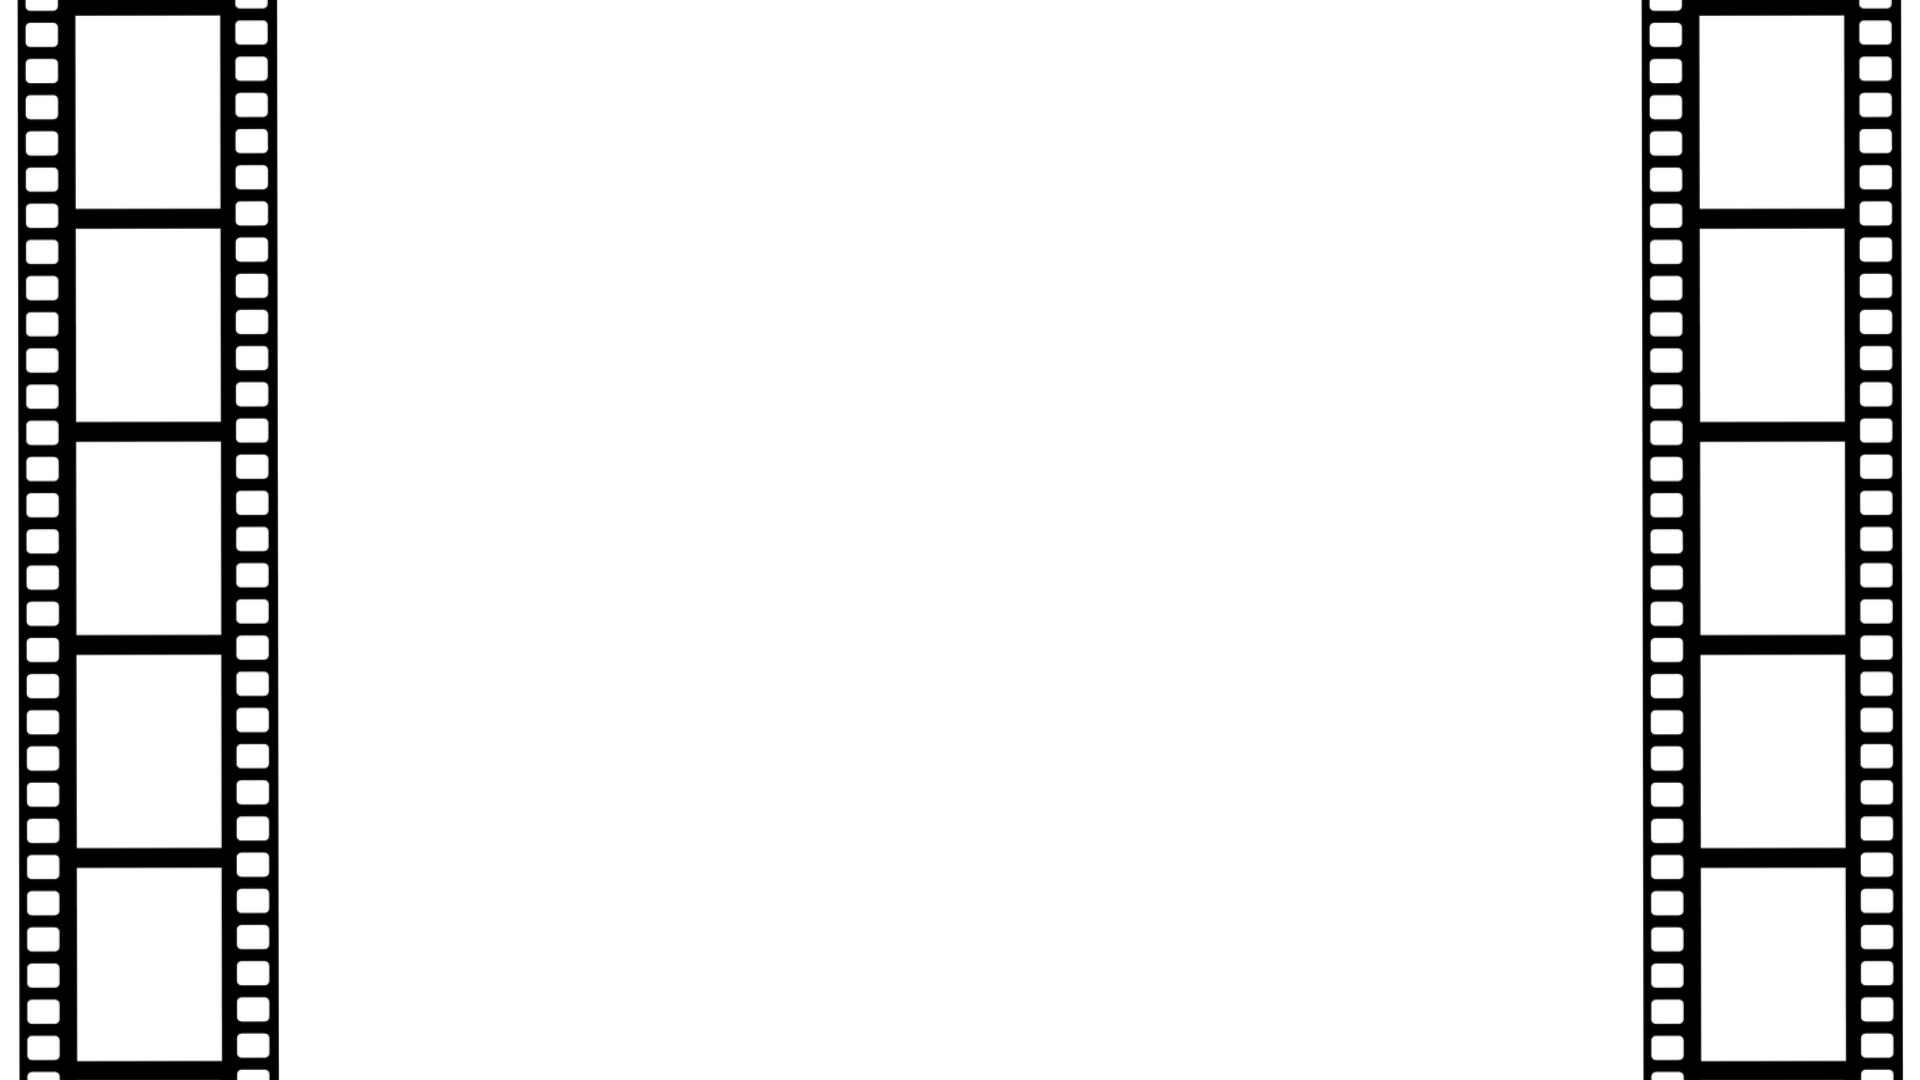
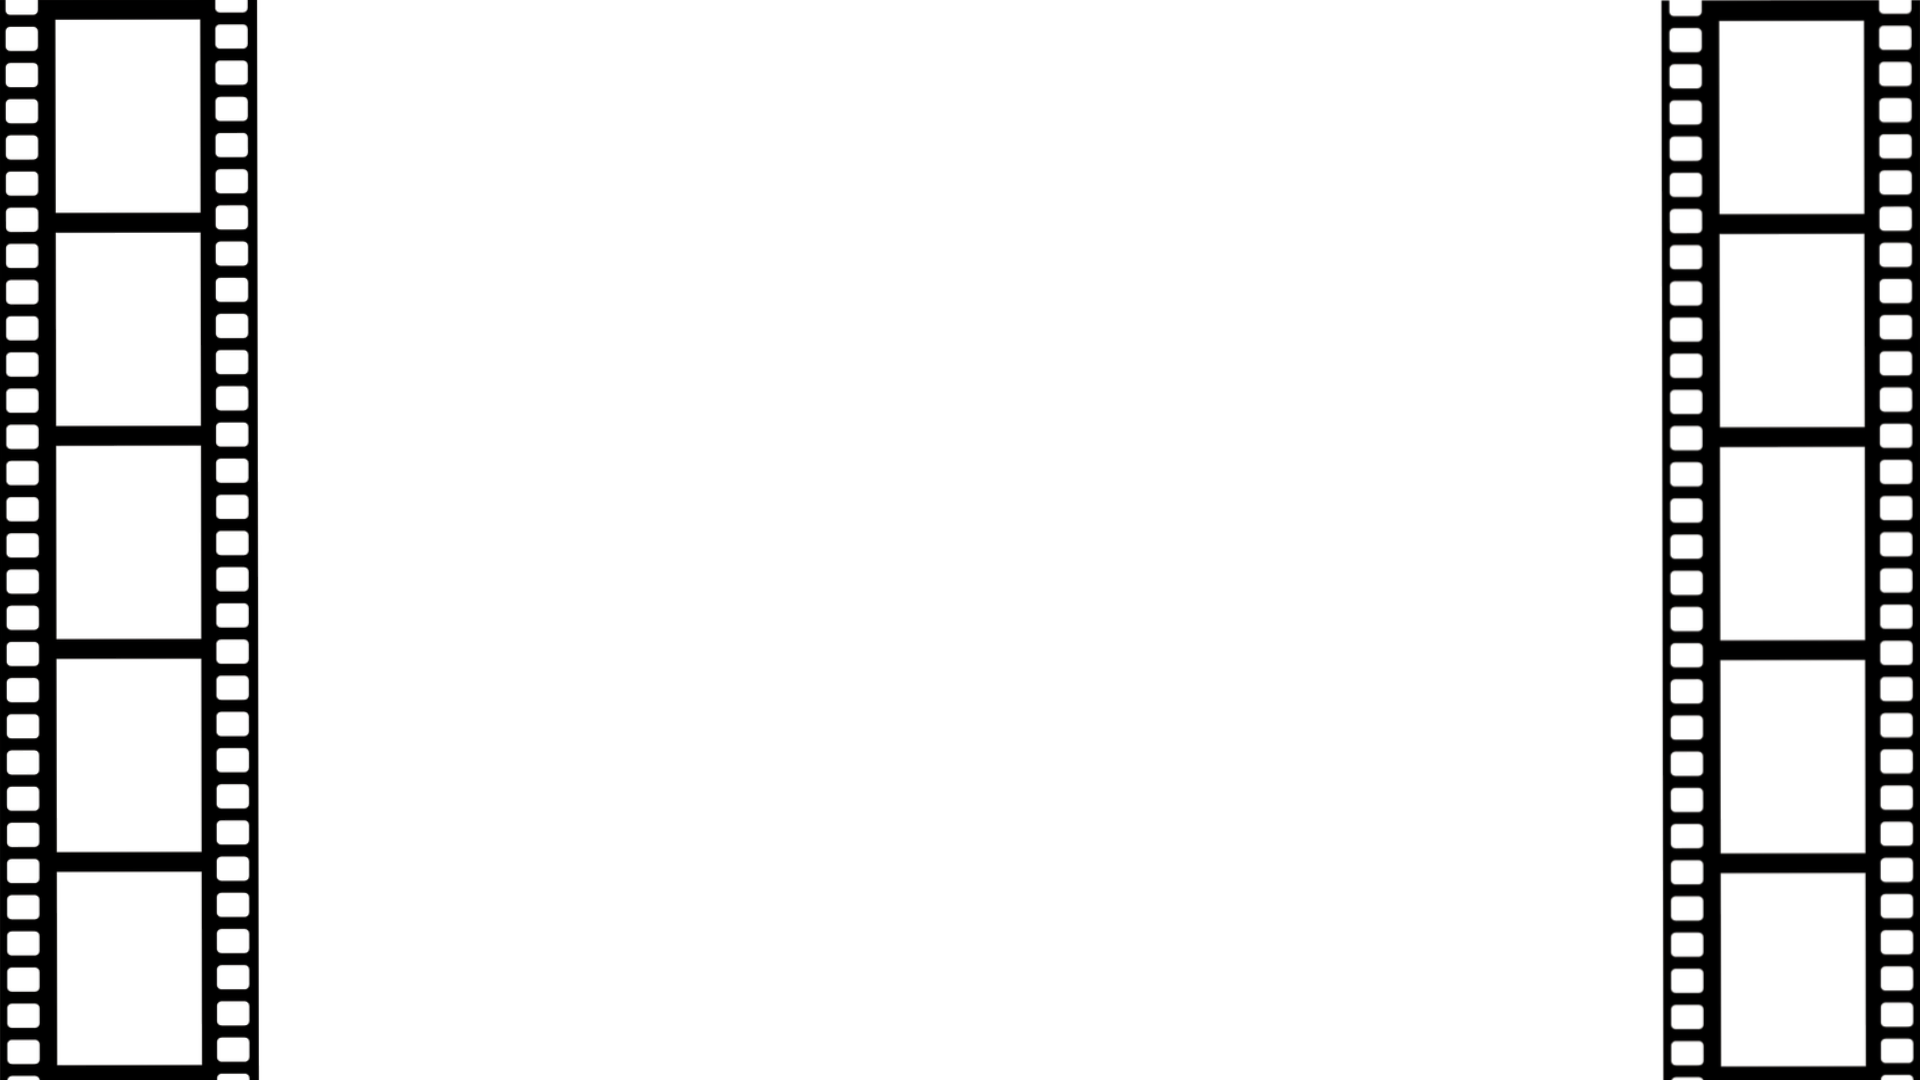
some style changes

Changed region(s): [[0.8438, 0.0, 1.0, 1.0], [0.0, 0.0, 0.1562, 1.0]]

diff --git a/index.html b/index.html
@@ -21,19 +21,23 @@
     </header>
 
     <main>
-        <h1>About Get Focused Photography</h1> 
-        <div class="about"> 
 
-            <p>
-                I, Craig Owen at get focused photography am a professional, result driven photographer with more than 20 years experience in the 
-                industry. It is my goal to build solid long term relationships with my clients through excellent quality and service delivery. 
-                 Over the years I've had my focus areas have included corporate events, weddings, products, personal photoshoots, and much more. Each
-                one of these shoots have been approached with creativity, precision, hospitality, and a commitment to bringing my clients vision to life.
-                This is more than just taking pictures, its about capturing stroies and preserving memories with creative visuals which leave a lasting 
-                impression. At Get Focused, we strive to combine the technical expertise with artistic expression to deliver images that truly stand out. 
-            </p> 
-            <img src="Img/WebLogo.png"  id="logo"/>
-        </div>
+        
+
+    <section id="about">
+  <div class="about">
+    <h1>About Get Focused Photography</h1>
+    <img src="Img/WebLogo.png" id="logo" alt="Get Focused Photography logo">
+    <p>
+      I, Craig Owen at Get Focused Photography, am a professional, result-driven photographer with more than 20 years of experience in the 
+      industry. It is my goal to build solid long-term relationships with my clients through excellent quality and service delivery. 
+      Over the years, my focus areas have included corporate events, weddings, products, personal photoshoots, and much more. Each
+      one of these shoots has been approached with creativity, precision, hospitality, and a commitment to bringing my clients’ vision to life.
+      This is more than just taking pictures—it's about capturing stories and preserving memories with creative visuals that leave a lasting 
+      impression. At Get Focused, we strive to combine technical expertise with artistic expression to deliver images that truly stand out.
+    </p> 
+  </div>
+</section>
         
 <section class="focus-areas">
   <div class="event-card">

diff --git a/Styles/index.css b/Styles/index.css
@@ -1,48 +1,52 @@
 .about {
-    display: flex;
-    align-items: flex-start;
-    justify-content: space-between;
-    gap: 2rem;
-    background-color: #0a0a0a00;
-    color: #e0e0e0;
-    padding: 4rem 6rem;
-    border-radius: 16px;
-    margin: 1rem auto;
-    max-width: 1200px;
-    font-family: 'Tektur', sans-serif;
-    min-height: 700px;
+  display: flex;
+  flex-direction: column; /* Stack image above text */
+  align-items: center;
+  justify-content: center;
+  background-color: transparent;
+  color: #e0e0e0;
+  padding: 4rem 6rem;
+  border-radius: 16px;
+  margin: 1rem auto;
+  max-width: 900px;
+  font-family: 'Tektur', sans-serif;
+  min-height: 700px;
+  text-align: center;
 }
 
 .about.me {
     display: flex;
 }
 
- h1 {
-    font-size: 2rem;
-    color: #00884d;
-    text-shadow: 0 0 8px rgba(0, 255, 136, 0.3);
-    margin-bottom: 1rem;
-    margin-top: 5rem;
-    text-align:center;
+h1 {
+  font-size: 2rem;
+  color: #00884d;
+  text-shadow: 0 0 8px rgba(0, 255, 136, 0.3);
+  margin-bottom: 1rem;
+  margin-top: 5rem;
+  text-align:center;
 }
 
 .about p {
-    line-height: 1.8;
-    font-size: 1.1rem;
-    color: #000000;
-    max-width: 900px;
-    text-align: justify;
+  line-height: 1.8;
+  font-size: 1.1rem;
+  color: #000000;
+  max-width: 800px;
+  text-align: left;
+  background-color: #c5c5c5;
+  padding: 5px;
+  border-radius: 10px;
+  margin: 1.5rem;
+  padding-left: 20px;
+  padding-right: 20px;
 }
 
 .about #logo {
-    flex: 1;      
-    max-width: 100%;     
-    width: 450px;      
-    height: auto;       
-    border-radius: 40px;  
-    margin-right: -6rem; 
-    align-self: flex-start;  
- 
+  width: 300px;
+  height: auto;
+  border-radius: 40px;
+  margin: 2rem 0;
+
 }
 
 .focus-areas {
@@ -51,7 +55,6 @@
   align-items: stretch;
   gap: 150px;
   padding: 200px 50px; 
-  background-color: #e1e1e1;
   flex-wrap: nowrap;      
   overflow-x: auto;        
   scroll-behavior: smooth;
@@ -122,6 +125,14 @@
         text-align: center;
         padding: 3rem 2rem;
     }
+
+    .about p {
+
+  border-radius: 5px;
+  text-align: center;
+
+
+}
 
     .about #logo {
         margin: 5rem 2rem 2rem 2rem;    

diff --git a/Styles/main.css b/Styles/main.css
@@ -6,10 +6,15 @@
 }
 
 body {
-  background-color:  #e1e1e1;
+  background-color: #e1e1e1;
   color: white;
   min-height: 100vh;
-  
+  background-image: url('../Img/BG1.png');
+  background-size: contain; 
+  background-position: center; 
+  background-repeat:repeat-y;
+  background-attachment:local;
+ 
 }
 
 .page-shutter {
@@ -123,6 +128,13 @@ footer {
   text-shadow: 0 0 8px #00ff66;
 }
 
+@media (max-width: 1500px) {
+  body {
+    background-attachment: scroll; /* Fix performance & scaling issues on mobile */
+    background-position: center top; 
+  }
+}
+
 @media (max-width: 850px) {
   nav {
     flex-wrap: wrap;
@@ -171,4 +183,11 @@ footer {
     font-size: 1.5rem;
     gap: 20px;
   }
+
+  @media (max-width: 600px) {
+  body {
+    background-size: contain;  
+    background-position: top center;
+  }
+}
 }

diff --git a/Styles/testimonial.css b/Styles/testimonial.css
@@ -1,6 +1,6 @@
 body {
   margin: 0;
-  background-color: #171717;
+  
   font-family: 'Tektur', sans-serif;
   color: #e0e0e0;
   display: flex;
@@ -45,9 +45,9 @@ h1 {
 .testimonial-card {
   min-width: 600px;
   max-width: 600px;
-  border: 6px solid #f0f0f0;
+  border: 6px solid #080808;
   border-radius: 16px;
-  background-color:  #f0f0f0;
+  background-color:  #171717;
   padding: 2px;
   flex-shrink: 0;
   transition: transform 0.5s ease, opacity 0.5s ease;

diff --git a/Styles/services.css b/Styles/services.css
@@ -5,6 +5,10 @@ main {
   padding-bottom: 6rem; 
 }
 
+body{
+  background-image: none;
+}
+
 .service-section {
   padding: 8rem 4rem;     
   background-color:#000000;
